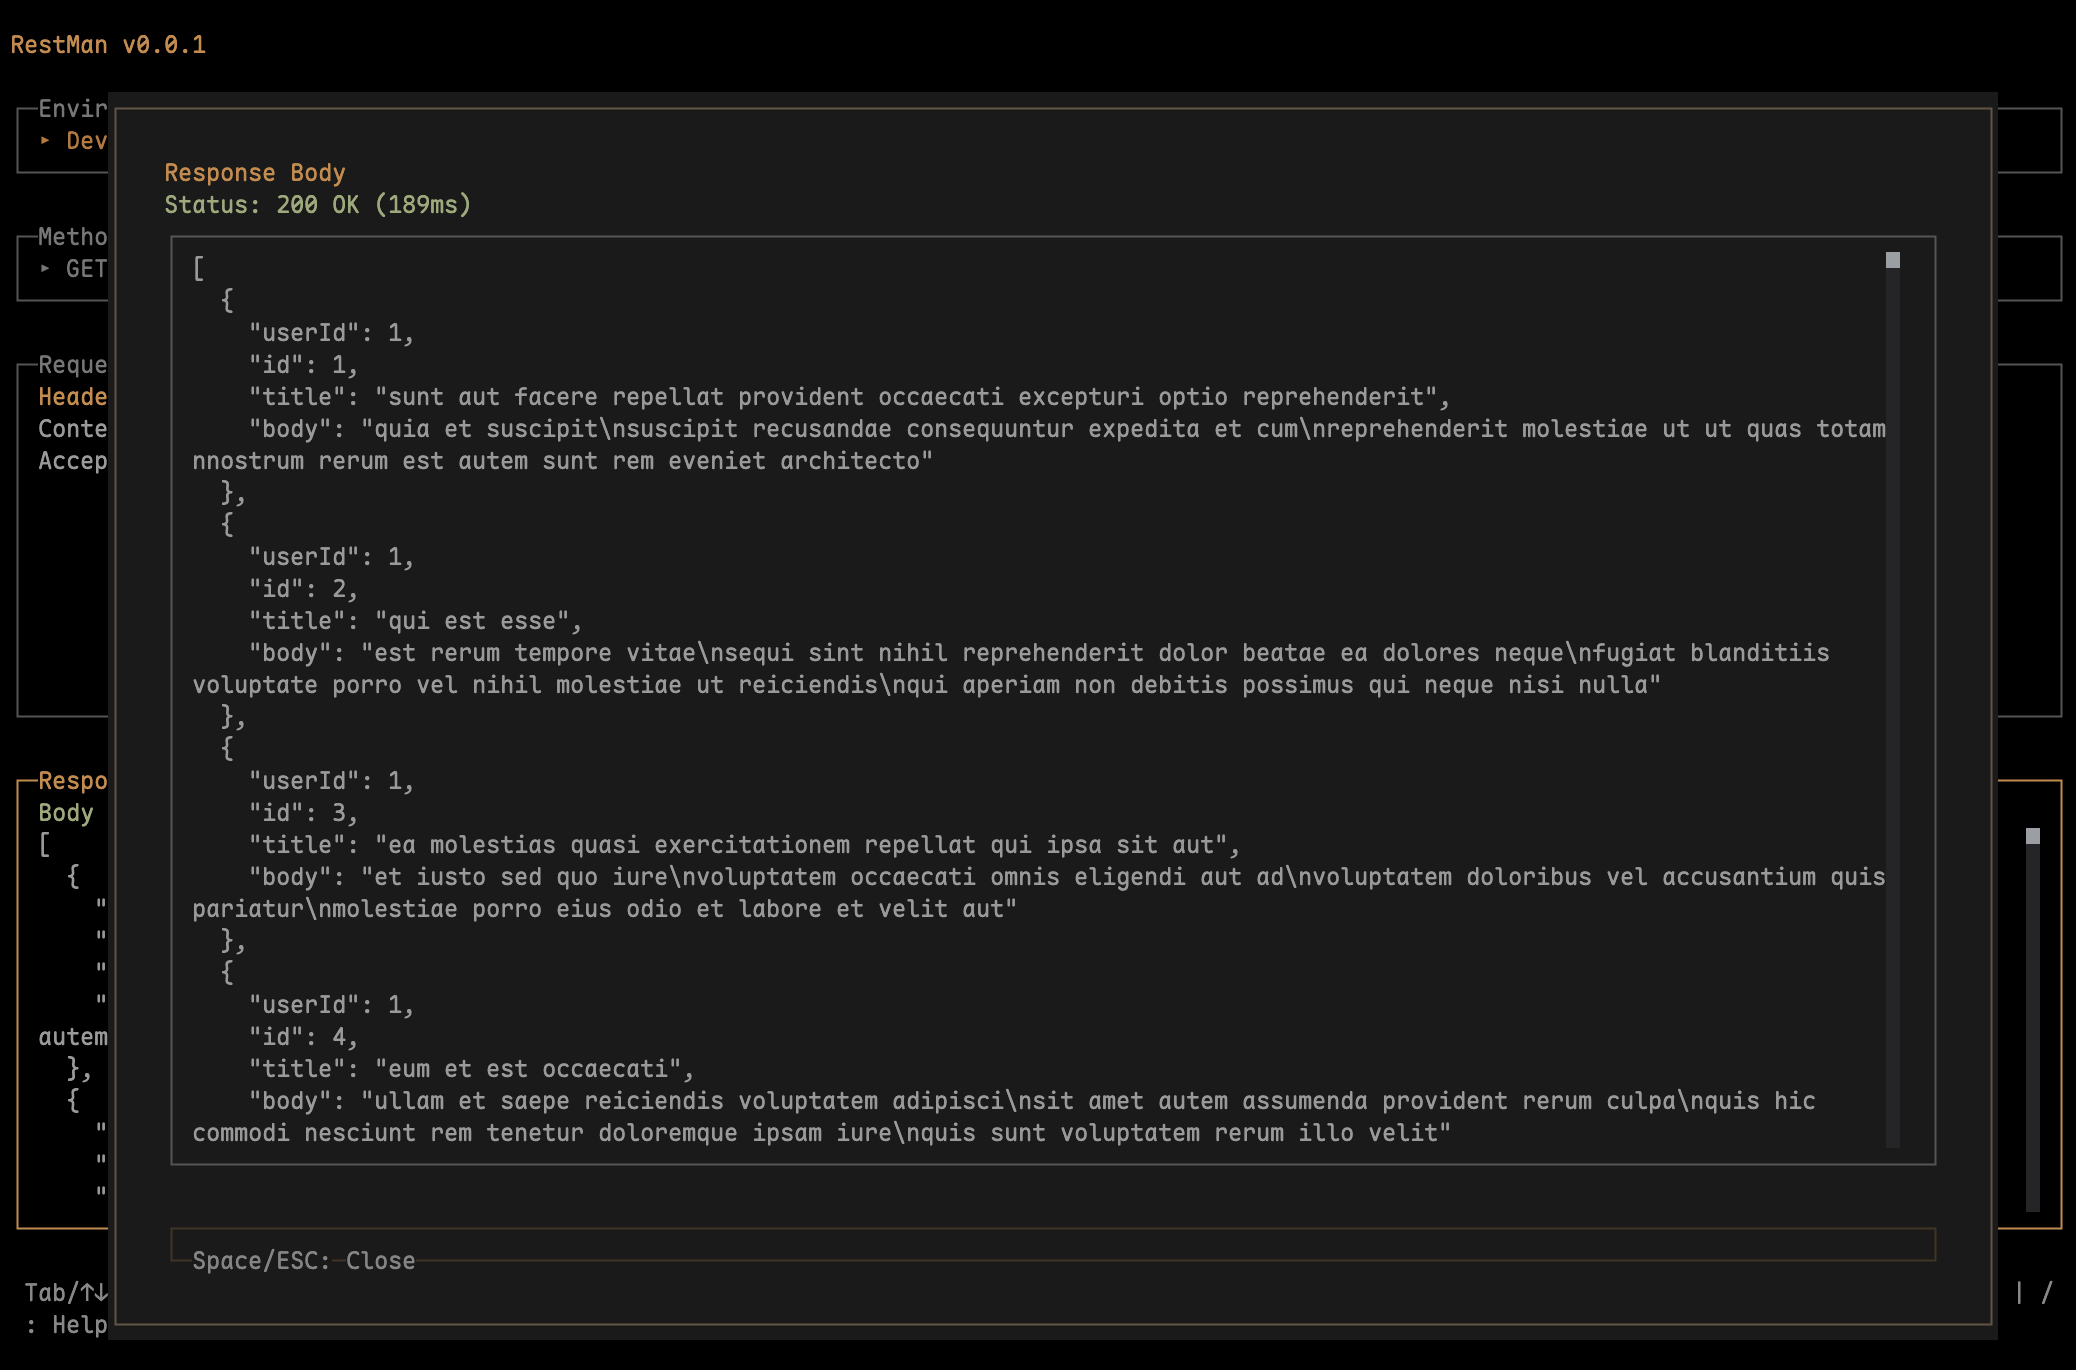
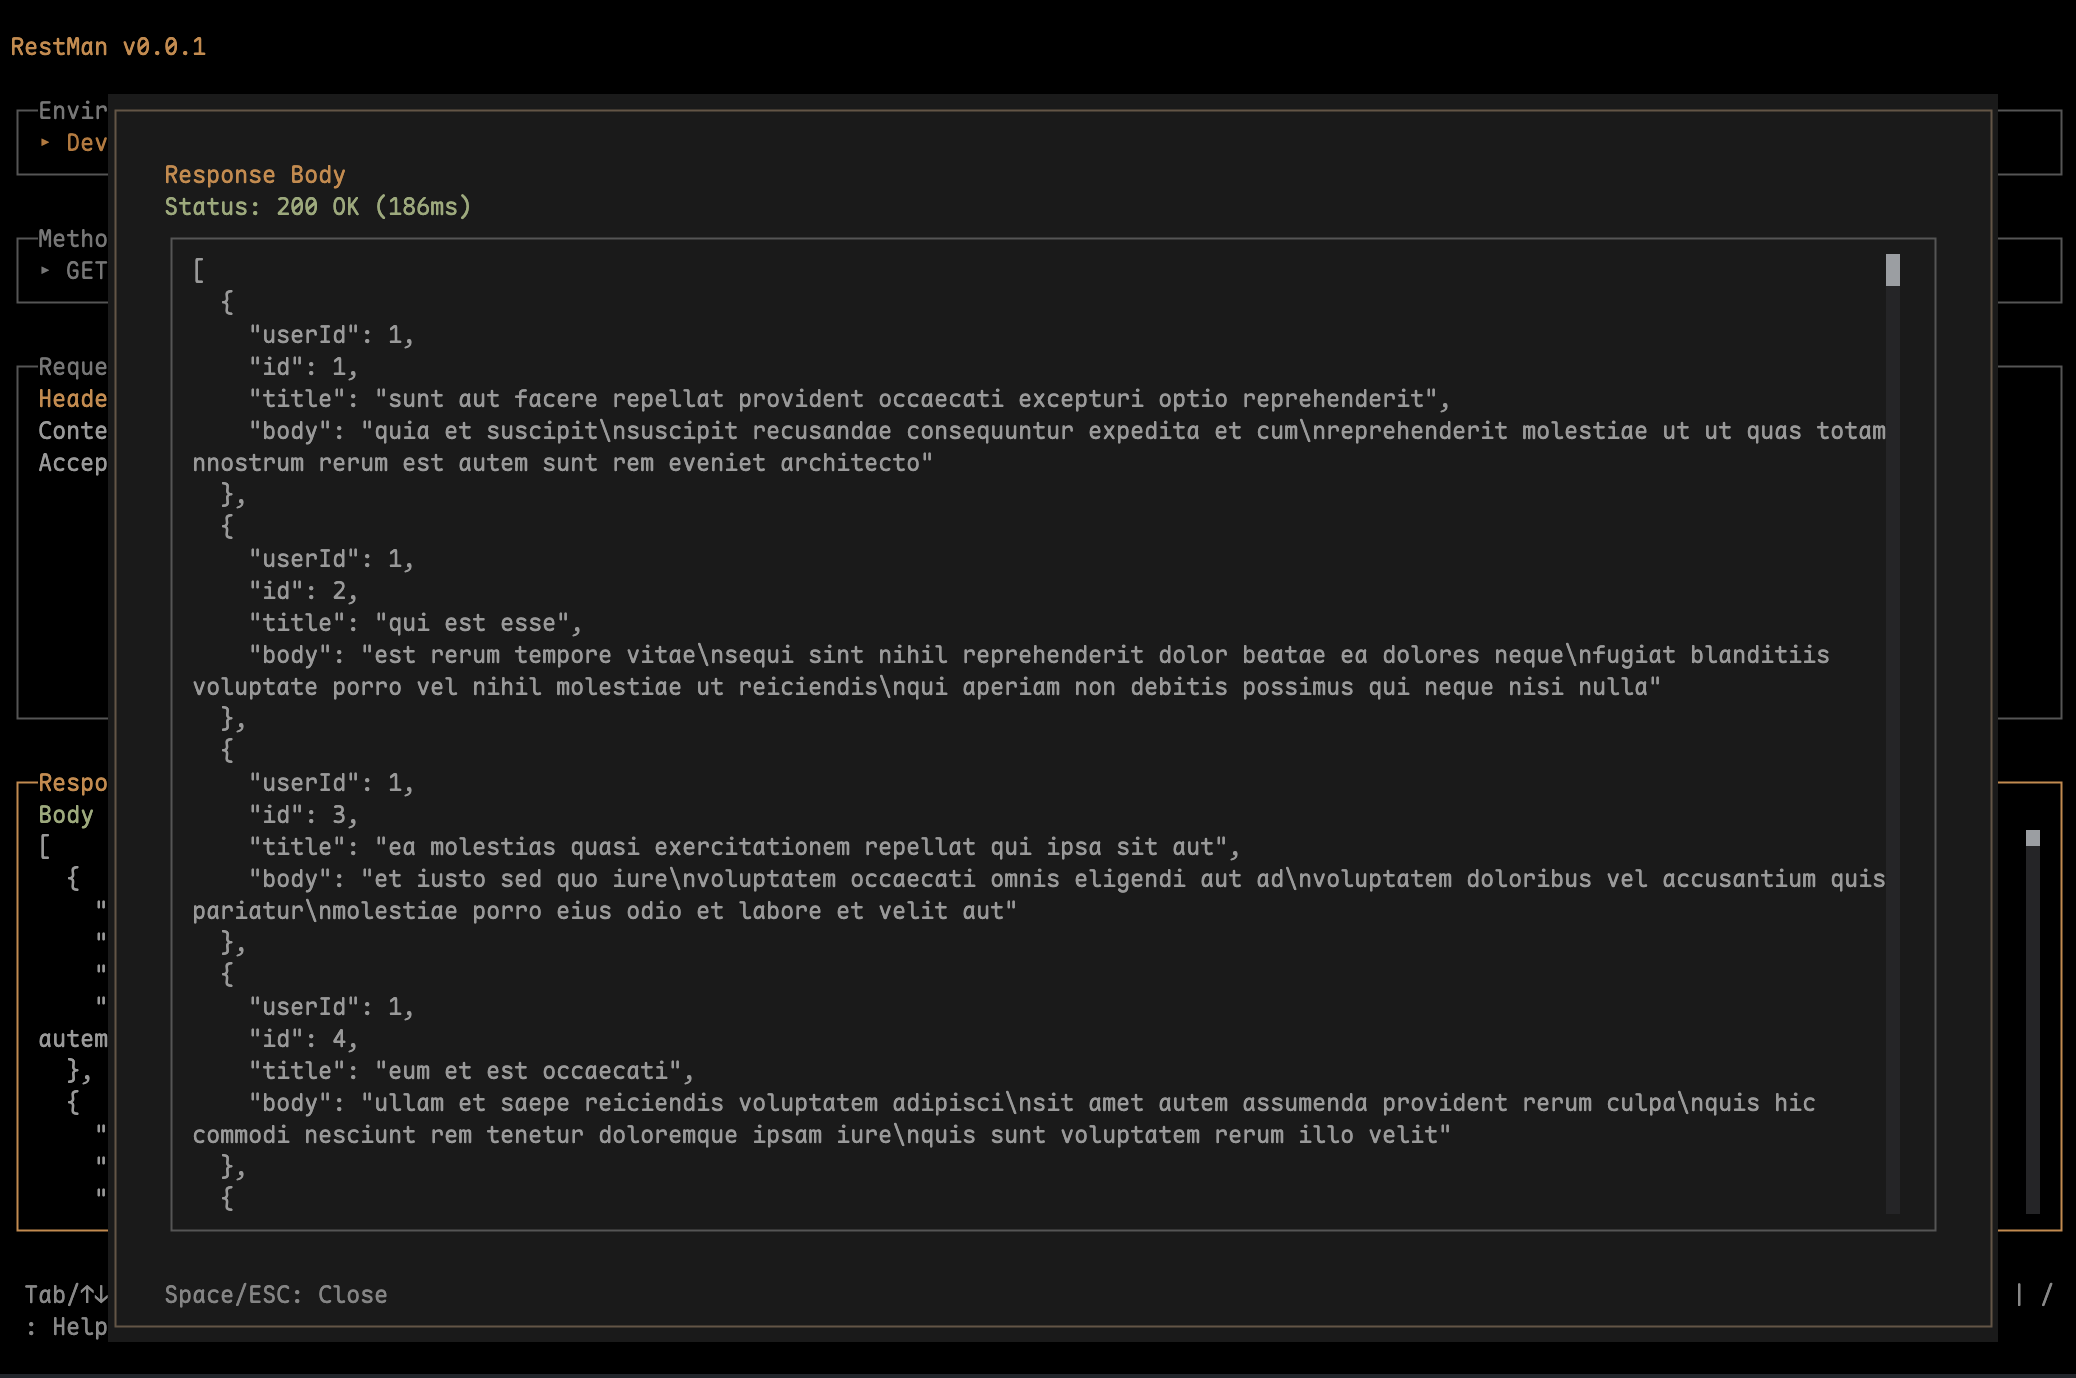
fix text getting squished

diff --git a/src/components/ResponseViewerModal.tsx b/src/components/ResponseViewerModal.tsx
@@ -100,10 +100,6 @@ export function ResponseViewerModal({ response, activeTab, onClose }: ResponseVi
           style={{
             marginTop: 1,
             justifyContent: 'center',
-            border: true,
-            borderColor: '#443322',
-            paddingLeft: 1,
-            paddingRight: 1,
           }}
         >
           <text fg="#666666">Space/ESC: Close</text>
